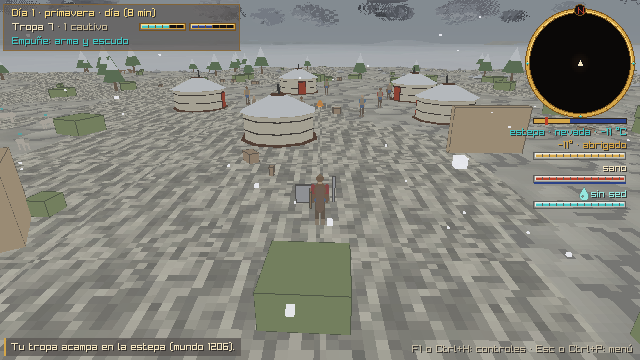
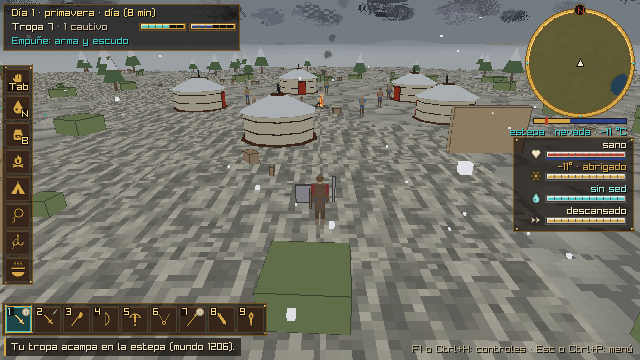
Docs y version 0.4.0: HUD, minimapa, muerte, aves y permafrost
Claude-Session: https://claude.ai/code/session_01LSTD6iWnn2bnoyhKZ9wkd2

diff --git a/docs/GDD.md b/docs/GDD.md
@@ -64,7 +64,7 @@ RPG de mundo abierto en 3D con gráficos pixel/low-res, ambientado en las estepa
 - **Empieza negro:** el personaje no conoce el mundo. Las zonas se **iluminan poco a poco** a medida que el jugador las recorre.
 - **Frecuencia = nitidez:** cada zona acumula familiaridad. Lo recorrido a menudo brilla más, como la memoria espacial real.
 - **Olvido en días de juego:** el brillo se apaga con los días (un día de juego = 30 minutos reales; `src/sim/clock.h`). Una zona vista de pasada se borra en una o dos semanas de juego; lo familiar dura mucho más (repetición espaciada).
-- **Todo el mundo:** el minimapa siempre se centra en el jugador y muestra el mundo a su alrededor; lo no explorado aparece oscuro. La memoria se guarda por páginas que solo se crean al explorar, así que crece con lo recorrido, no con el tamaño del mundo.
+- **Todo el mundo:** el minimapa siempre se centra en el jugador y muestra la geografía a su alrededor (200 m): regiones, relieve sombreado, ríos, lagos, mar, deshielo y nieve de las cumbres, y los pueblos, tribus, guaridas y ruinas ya vistos. Lo no recorrido u olvidado se ve apagado. La memoria se guarda por páginas que solo se crean al explorar, así que crece con lo recorrido, no con el tamaño del mundo.
 - **Días automáticos:** el reloj de juego avanza los días solo; `Enter` salta al amanecer siguiente y `Ctrl+N` adelanta dos minutos (prueba).
 - **Marcas:** el jugador marca sitios de interés (`M`) o de peligro (`Shift+M`). Pulsar de nuevo cerca de una marca la quita. Las marcas fuera de alcance quedan en el borde, señalando su dirección.
 - Los parámetros (radio de vista, velocidad de aprendizaje y de olvido, brillo de una sola pasada) están en `memmap_default_params` y son de balance.
@@ -77,6 +77,7 @@ RPG de mundo abierto en 3D con gráficos pixel/low-res, ambientado en las estepa
 - **Duración de la luz según la estación:** en pleno invierno la noche alcanza **20 minutos** y el día 10; en pleno verano, al revés. En los equinoccios (mitad de la primavera y del otoño) son 15 y 15. El cambio es gradual día a día.
 - **Alba y ocaso:** penumbra de 90 segundos de juego con luz cálida; el sol bajo también entibia los colores.
 - **La noche se ve:** la escena se oscurece y azulea, aparecen las estrellas y los fuegos alumbran a su alrededor (fogata del campamento, fogatas, hogueras, hornos y la antorcha encendida en la mano).
+- **HUD de rol:** bajo el minimapa, una placa con las constantes (vida, calor del cuerpo, sed y **aguante**); abajo a la izquierda, la **barra rápida 1-9** (empuñaduras y antorcha; la misma tecla otra vez enfunda); en el borde izquierdo, una **columna de acciones** (menú, beber, vendar, fogata, tienda, lazo, trepa, hervir agua). Responde al ratón y a los toques. El aguante lo gastan correr, saltar y golpear; agotado, no se corre.
 - **HUD:** el panel dice el día, la estación, la fase y los minutos que faltan para el próximo cambio; bajo el minimapa, una barra muestra el reparto de luz (oro) y noche (lapislázuli) con la hora actual.
 - **Prueba:** `./build/estepa --dia 25 --minuto 14` arranca en una noche de pleno invierno.
 
@@ -156,7 +157,7 @@ Detalle, reglas y parámetros para afinar: [MUNDO.md](MUNDO.md).
 - **Sangrado:** cortes y mordidas sangran hasta vendarlos (los leves coagulan solos). Sin sangre se cae **abatido** y, si se acaba, se muere.
 - **Efectos:** heridas en las piernas frenan (y se cojea), en los brazos debilitan los golpes; poca sangre afecta a todo.
 - **Curar:** las heridas sanan con el tiempo, más rápido vendadas y en reposo; las fracturas solo sanan entablilladas. `B` venda con **hierbas curativas** del acopio (a uno mismo o a un compañero cercano; a uno abatido lo levanta). El **curandero** del campamento atiende al jugador cuando está cerca y, cada amanecer, trata y cura a toda la tribu; los grandes guerreros aguantan más (vida según talla y aguante).
-- **El jugador no muere:** abatido, su escolta lo levanta y lo venda; si está solo, despierta en el campamento (moral −5, pierde lo que cargaba). Los compañeros sí mueren (luto: moral −6).
+- **Muerte y regreso:** abatido, su escolta lo levanta y lo venda. Si muere (desangrado, o abatido sin nadie que lo socorra), en el suelo quedan una calavera y unos huesos, y vuelve a su **último lugar de descanso**: el último campamento, tienda o casa de la tribu donde se quedó unos segundos (moral −8, pierde lo que cargaba). Los compañeros mueren para siempre (luto: moral −6).
 - **Combate cuerpo a cuerpo** (`src/sim/melee.*`). Las mismas reglas valen para el jugador, la escolta y los enemigos:
   - **Golpes y combos:** `V` (o clic izquierdo) golpea con el arma empuñada. El daño, el alcance y la cadencia dependen del arma: dagas rápidas, mazas que rompen huesos, lanzas de largo alcance; el bronce, el acero y las armas especiales cortan más. Tres golpes seguidos encadenan un **combo** (el tercero remata). Las armas cortas encadenan más rápido; con las largas (lanza, espada, guja) el remate puede tumbar.
   - **Golpe pesado:** mantener `V` medio segundo. Más daño, desequilibra y rompe la guardia del escudo (algo de daño pasa).

diff --git a/docs/MUNDO.md b/docs/MUNDO.md
@@ -109,6 +109,7 @@ El norte es −Z y el este +X.
   - **Color por región:** arenisca en el desierto, liquen en el bosque y la costa.
   - **Casas por región:** yurta de fieltro, cabaña de troncos, casa de piedra, casa larga con techo de turba y adobe con cúpula. Las capitales llevan torres de piedra o de madera.
   - **Claro:** alrededor de las estructuras y los campamentos no crecen árboles ni rocas.
+- **Barrancos del altiplano:** son permafrost; sus paredes son hielo (seracs) todo el año. Un lago o un río no flota sobre un cañón: donde el suelo cae muy por debajo de su nivel, manda el agua de abajo.
 - **Fogatas y hogueras** (`src/world/hearth.c`), a partir de fotos de fogatas reales:
   - corro de cantos grises de tamaños distintos, algunos tiznados, sobre ceniza y tierra quemada;
   - leños en tipi con la corteza abajo y la punta carbonizada, y dos troncos cruzados en el lecho;
@@ -117,6 +118,14 @@ El norte es −Z y el este +X.
   - **humo:** pequeñas bocanadas oscuras que salen sobre las llamas y suben en hilera; el viento las inclina y, al subir, crecen, se aclaran y se desvanecen. De noche se oscurecen con el cielo;
   - la **hoguera** es la misma fogata al doble de tamaño: más piedras, más leños, llamas más altas y una columna de humo más larga. La capital también tiene una;
   - las tribus y las aldeas tienen la suya. Con la lluvia, todas quedan apagadas: sin llamas ni humo.
+
+![Barrancos de permafrost](mundo/permafrost.png)
+
+*Un cañón del altiplano en verano y en invierno: sus paredes son hielo todo el año, y el río corre en el fondo (antes un lago de arriba quedaba flotando sobre el barranco).*
+
+![HUD](mundo/hud.png)
+
+*El HUD: el minimapa con la geografía (aquí, el meandro), la placa de las constantes, la barra rápida 1-9 y la columna de acciones.*
 
 ![Cielo](mundo/cielo.png)
 

diff --git a/docs/ROADMAP.md b/docs/ROADMAP.md
@@ -64,6 +64,10 @@ Decisión: el port de Android replica la experiencia de PC y se juega con **tecl
 
 ## Mapa de memoria
 - [x] Minimapa circular tipo brújula, que gira con la vista.
+- [x] Minimapa con la geografía (regiones, relieve, ríos, lagos, mar, nieve) y los lugares vistos.
+- [x] HUD de rol: placa de constantes (vida, calor, sed, aguante), barra rápida 1-9 y columna de acciones táctiles.
+- [x] Muerte y regreso al último lugar de descanso, con calavera y huesos donde se cae.
+- [x] Aves: no atacan a las personas; rapaces que cazan en picado y cuervos carroñeros.
 - [x] Memoria espacial: empieza negro, se ilumina al recorrer, lo frecuente brilla más y todo se olvida con el tiempo (lo familiar, más despacio). Con tests.
 - [x] Marcas de interés y de peligro.
 - [x] Cobertura de todo el mundo (memoria dispersa por páginas) y olvido medido en días de juego.
